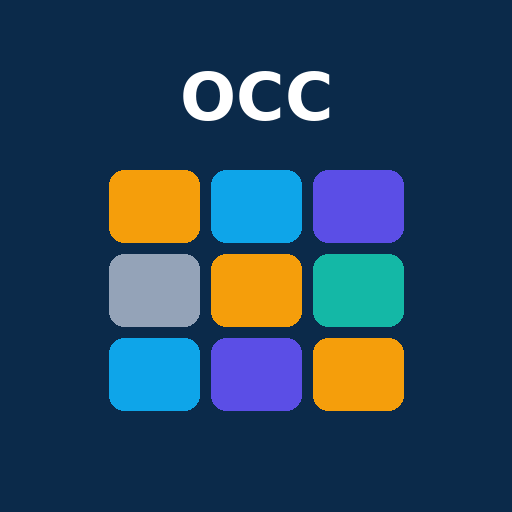
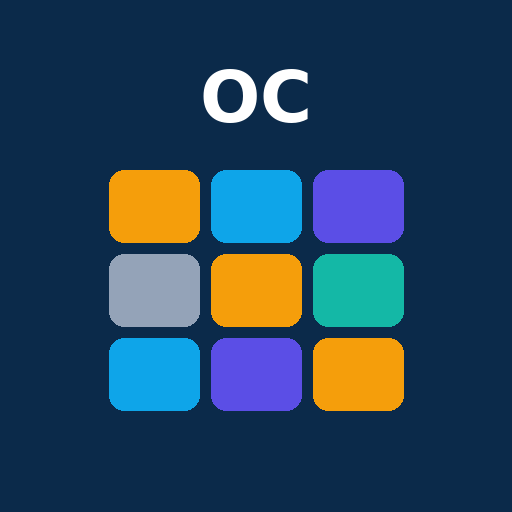
Nome da app: OC Diário
Claude-Session: https://claude.ai/code/session_01Pnza1WvJRQ2hhv3wLxRDWe

Changed region(s): [[0.3438, 0.125, 0.6562, 0.25]]

diff --git a/index.html b/index.html
@@ -3,14 +3,14 @@
 <head>
 <meta charset="utf-8">
 <meta name="viewport" content="width=device-width, initial-scale=1, viewport-fit=cover">
-<title>OCC Diário</title>
+<title>OC Diário</title>
 <meta name="theme-color" content="#0b2a4a">
 <link rel="manifest" href="manifest.webmanifest">
 <link rel="apple-touch-icon" href="icon-180.png">
 <link rel="icon" href="icon-192.png">
 <meta name="apple-mobile-web-app-capable" content="yes">
 <meta name="apple-mobile-web-app-status-bar-style" content="black">
-<meta name="apple-mobile-web-app-title" content="OCC Diário">
+<meta name="apple-mobile-web-app-title" content="OC Diário">
 <link rel="preconnect" href="https://fonts.googleapis.com">
 <link href="https://fonts.googleapis.com/css2?family=IBM+Plex+Sans:wght@400;500;600;700&family=IBM+Plex+Mono:wght@500;600&display=swap" rel="stylesheet">
 <style>
@@ -253,7 +253,7 @@ textarea{resize:vertical;min-height:72px;line-height:1.45}
 </head>
 <body>
 <header class="top">
-  <h1>OCC Diário<small id="uname">Escala · RDO · checklists</small></h1>
+  <h1>OC Diário<small id="uname">Escala · RDO · checklists</small></h1>
   <span class="sync" id="sync"><i></i>A ligar…</span>
   <span class="clock" id="clk">--:--<small>UTC</small></span>
   <button class="gear" id="setBtn" aria-label="Definições"><svg viewBox="0 0 24 24" width="22" height="22" fill="none" stroke="currentColor" stroke-width="2" stroke-linecap="round" stroke-linejoin="round"><circle cx="12" cy="12" r="3"/><path d="M19.4 15a1.7 1.7 0 0 0 .3 1.8l.1.1a2 2 0 1 1-2.8 2.8l-.1-.1a1.7 1.7 0 0 0-1.8-.3 1.7 1.7 0 0 0-1 1.5V21a2 2 0 1 1-4 0v-.1a1.7 1.7 0 0 0-1.1-1.5 1.7 1.7 0 0 0-1.8.3l-.1.1a2 2 0 1 1-2.8-2.8l.1-.1a1.7 1.7 0 0 0 .3-1.8 1.7 1.7 0 0 0-1.5-1H3a2 2 0 1 1 0-4h.1a1.7 1.7 0 0 0 1.5-1.1 1.7 1.7 0 0 0-.3-1.8l-.1-.1a2 2 0 1 1 2.8-2.8l.1.1a1.7 1.7 0 0 0 1.8.3H9a1.7 1.7 0 0 0 1-1.5V3a2 2 0 1 1 4 0v.1a1.7 1.7 0 0 0 1 1.5 1.7 1.7 0 0 0 1.8-.3l.1-.1a2 2 0 1 1 2.8 2.8l-.1.1a1.7 1.7 0 0 0-.3 1.8V9a1.7 1.7 0 0 0 1.5 1H21a2 2 0 1 1 0 4h-.1a1.7 1.7 0 0 0-1.5 1z"/></svg></button>
@@ -282,7 +282,7 @@ textarea{resize:vertical;min-height:72px;line-height:1.45}
 <div class="toast" id="toast"></div>
 <div class="login" id="login"><form class="lbox" id="lf" autocomplete="off">
   <img src="icon-192.png" alt="" width="64" height="64" style="border-radius:16px">
-  <h2>OCC Diário</h2><p>Entre com o seu código pessoal. É ele que separa os seus dados dos de outras pessoas.</p>
+  <h2>OC Diário</h2><p>Entre com o seu código pessoal. É ele que separa os seus dados dos de outras pessoas.</p>
   <input id="lk" class="mono" type="text" autocapitalize="characters" spellcheck="false" placeholder="OCC-XXXX-XXXX-XXXX" aria-label="Código pessoal">
   <p class="err" id="lerr"></p>
   <button class="btn" style="width:100%">Entrar</button>
@@ -726,7 +726,7 @@ function genKey(){const A="ABCDEFGHJKLMNPQRSTUVWXYZ23456789",r=new Uint32Array(1
 $("#lgen").onclick=()=>{$("#lk").value=genKey();$("#lk").type="text";$("#lerr").innerHTML="<span style='color:var(--ink)'>Código criado. <b>Guarde-o</b> (por exemplo nas Notas): vai precisar dele noutros dispositivos e não é possível recuperá-lo.</span>"};
 $("#lf").addEventListener("submit",e=>{e.preventDefault();const k=$("#lk").value.trim().toUpperCase().replace(/\s+/g,"");
   if(k.length<10){$("#lerr").textContent="O código tem de ter pelo menos 10 caracteres.";return}startWith(k)});
-const APPV="25";
+const APPV="26";
 async function rdoPdf(d){try{await loadJs("vendor/jspdf.umd.min.js")}catch(_){toast("Não foi possível criar o PDF");return}
   const {jsPDF}=window.jspdf,doc=new jsPDF({unit:"mm",format:"a4"}),W=210,M=16,CW=W-2*M;let y=0;
   const dt=fromKey(d.date),s=SK[d.shift],dl=dt.toLocaleDateString("pt-PT",{weekday:"long",day:"numeric",month:"long",year:"numeric"});
@@ -756,7 +756,7 @@ async function rdoPdf(d){try{await loadJs("vendor/jspdf.umd.min.js")}catch(_){to
           if(so){doc.setDrawColor(11,92,173);doc.setLineWidth(0.5);doc.line(M+12.6,y+1.9,M+13.4,y+2.7);doc.line(M+13.4,y+2.7,M+14.6,y+0.9);doc.setLineWidth(0.2)}
           doc.setTextColor(so?13:110,so?27:120,so?42:130);doc.text(sl,M+17,y+2.9);y+=sh})});
       y+=4})}
-  doc.setFontSize(8);doc.setTextColor(120,130,140);doc.text("Gerado em "+new Date().toISOString().slice(0,16).replace("T"," ")+" UTC · OCC Diário",M,290);
+  doc.setFontSize(8);doc.setTextColor(120,130,140);doc.text("Gerado em "+new Date().toISOString().slice(0,16).replace("T"," ")+" UTC · OC Diário",M,290);
   const name=`RDO_${d.date}.pdf`,blob=doc.output("blob"),file=new File([blob],name,{type:"application/pdf"});
   try{if(navigator.canShare&&navigator.canShare({files:[file]})&&matchMedia("(pointer:coarse)").matches){await navigator.share({files:[file],title:name});return}}catch(e){if(e&&e.name==="AbortError")return}
   const a=document.createElement("a");a.href=URL.createObjectURL(blob);a.download=name;document.body.appendChild(a);a.click();setTimeout(()=>{URL.revokeObjectURL(a.href);a.remove()},4000);toast("PDF criado")}

diff --git a/sw.js b/sw.js
@@ -1,5 +1,5 @@
 // OCC Diário — funciona sem rede
-const V = "occ-v25";
+const V = "occ-v26";
 const SHELL = [
   "./", "index.html", "manifest.webmanifest",
   "icon-180.png", "icon-192.png", "icon-512.png",
